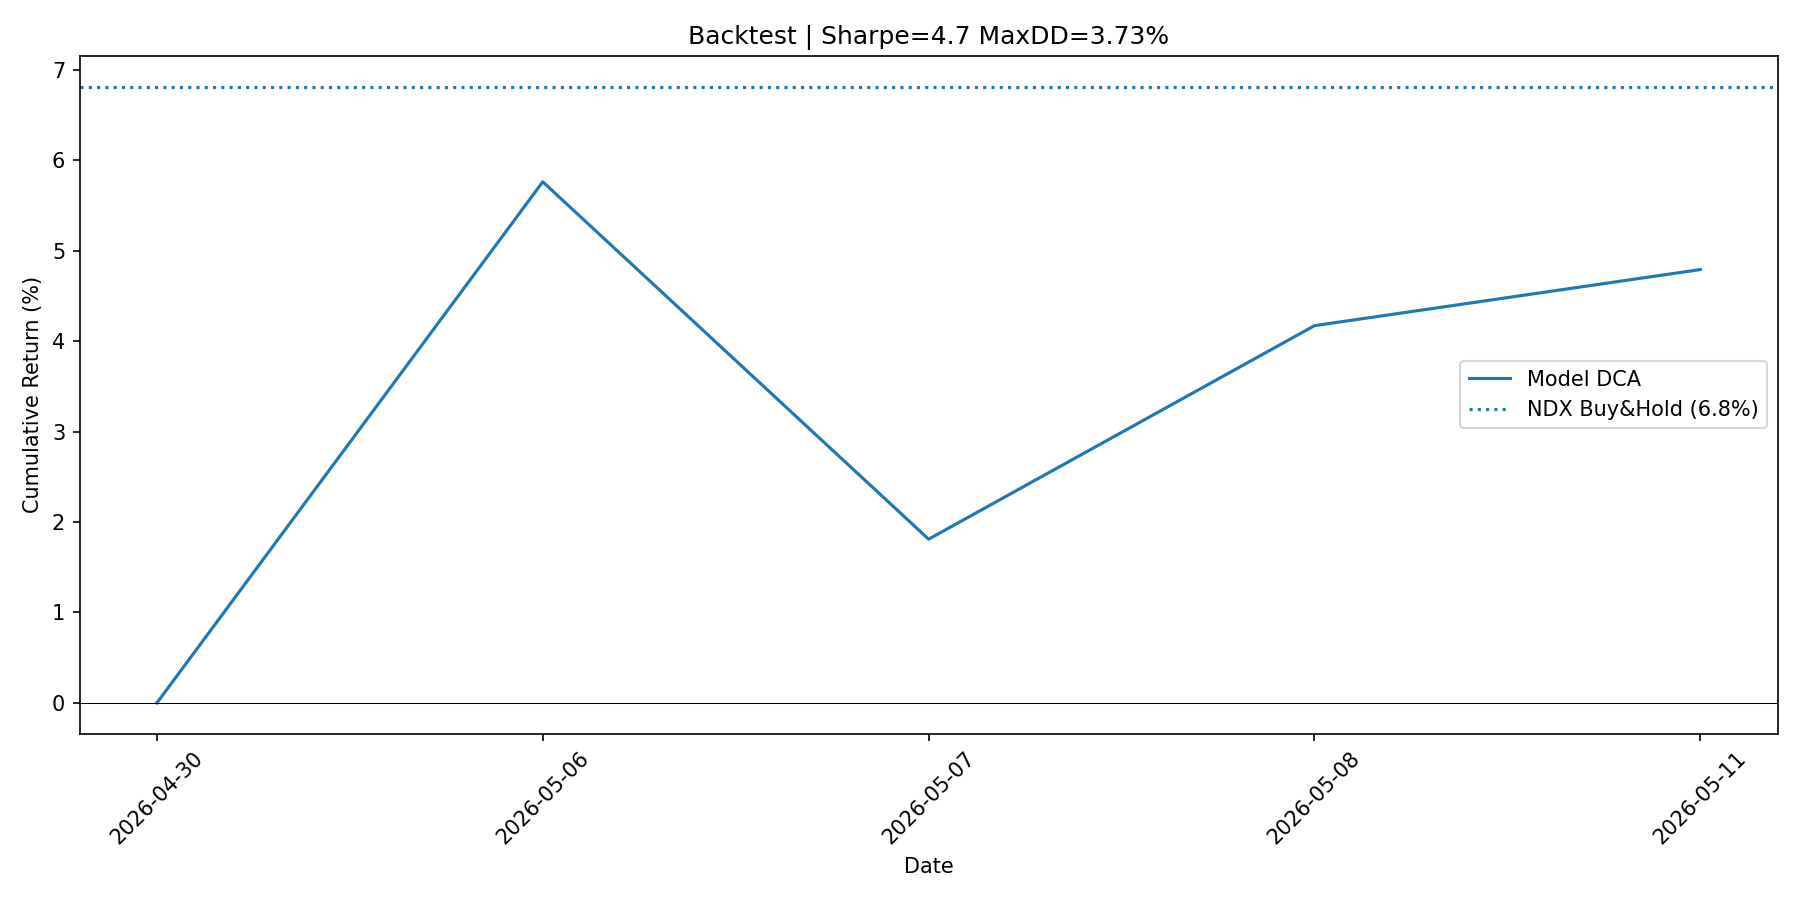
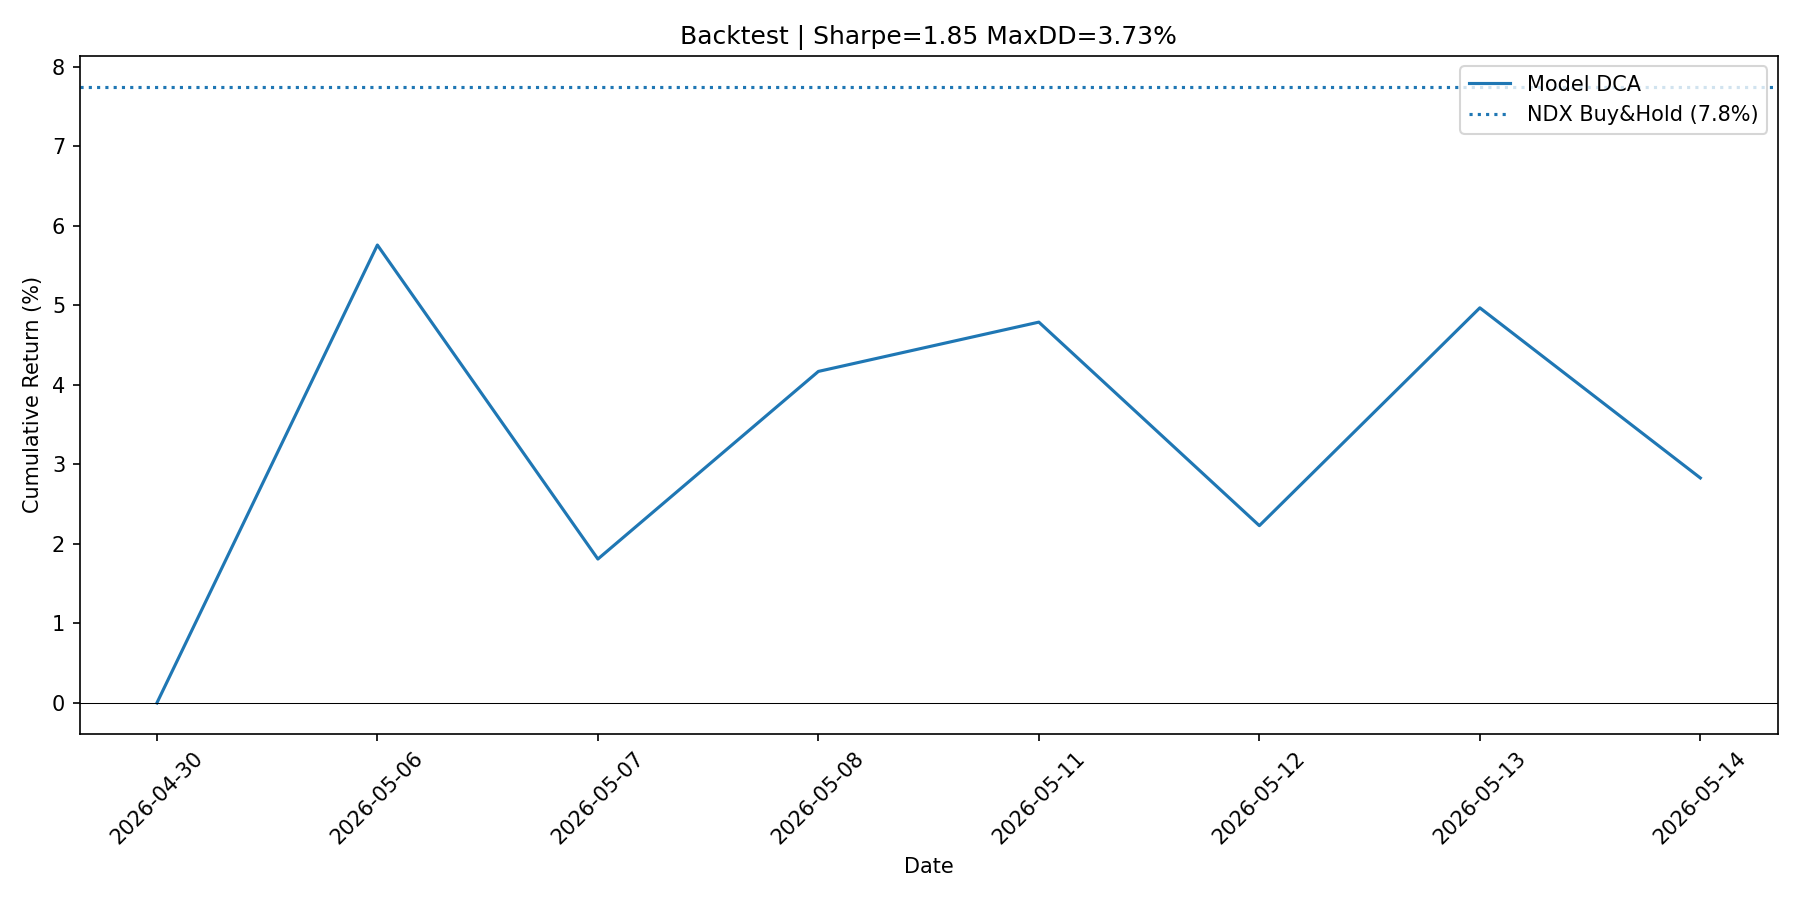
修复了5:15定时任务中回测读取的先后顺序问题

diff --git a/yfd_quant/data/db.py b/yfd_quant/data/db.py
@@ -164,6 +164,7 @@ INSERT_VALIDATION = (
 UPDATE_VALIDATION = (
     "UPDATE validation SET ndx_actual_open=?, ndx_actual_close=?, "
     "p_est_deviation=?, entry_return=?, forward_return=?, "
+    "fund_entry_return=?, fund_forward_return=?, "
     "operate_time=? WHERE date=?"
 )
 
@@ -182,6 +183,15 @@ INSERT_FUND = (
 
 
 # ========== 底层操作 ==========
+
+def _migrate_validation(conn: sqlite3.Connection) -> None:
+    """迁移：给 validation 表新增基金收益列"""
+    for col in ("fund_entry_return REAL", "fund_forward_return REAL"):
+        try:
+            conn.execute(f"ALTER TABLE validation ADD COLUMN {col}")
+        except sqlite3.OperationalError:
+            pass  # 列已存在
+
 
 def _migrate_snapshot(conn: sqlite3.Connection) -> None:
     """迁移：删除快照表中已废弃的 CPO 中间变量列"""
@@ -217,6 +227,7 @@ def _get_conn() -> sqlite3.Connection:
     conn.execute(CREATE_SNAPSHOT)
     conn.execute(CREATE_VALIDATION)
     conn.execute(CREATE_FUND)
+    _migrate_validation(conn)
     conn.commit()
     _migrate_snapshot(conn)
     conn.commit()
@@ -516,6 +527,10 @@ def save_validation(date: str, result) -> None:
 
 def update_actual(date: str, actual_open: float, actual_close: float) -> None:
     """补录实际数据：从 snapshot 读 p_est/c_prev，写入 validation"""
+    # 跳过已有 actual 数据的行（backfill 已写入）
+    existing = _get_validation_row(date)
+    if existing and existing.get("ndx_actual_open"):
+        return
     snap = get_snapshot(date)
     if snap:
         p_est = snap["p_est"]
@@ -537,12 +552,39 @@ def update_actual(date: str, actual_open: float, actual_close: float) -> None:
     if next_row and actual_close > 0:
         fwd_ret = ((next_row[0] - actual_close) / actual_close * 100)
 
+    # 基金收益
+    fund_entry_ret, fund_fwd_ret = _compute_fund_returns(date)
+
     conn.execute(UPDATE_VALIDATION, (
         actual_open, actual_close,
         round(deviation, 2), round(entry_ret, 2), round(fwd_ret, 2),
+        round(fund_entry_ret, 4), round(fund_fwd_ret, 4),
         _now(), date))
     conn.commit()
     conn.close()
+
+
+def _compute_fund_returns(date: str) -> tuple[float, float]:
+    """计算基金 entry_return 和 forward_return，返回 (entry, forward)"""
+    nav_today = _get_fund_nav(date)
+    if not nav_today:
+        return 0.0, 0.0
+    # entry_return: (nav[T] - nav[T-1]) / nav[T-1] * 100
+    # fund_nav 表中 T-1 的数据：找 < date 的最后一条
+    conn = _get_conn()
+    prev_row = conn.execute(
+        "SELECT nav FROM fund_nav WHERE date < ? ORDER BY date DESC LIMIT 1", (date,)
+    ).fetchone()
+    conn.close()
+    fund_entry_ret = 0.0
+    if prev_row and prev_row[0] > 0:
+        fund_entry_ret = (nav_today - prev_row[0]) / prev_row[0] * 100
+    # forward_return: (nav[T+1] - nav[T]) / nav[T] * 100
+    next_nav = _get_next_fund_nav(date)
+    fund_fwd_ret = 0.0
+    if next_nav and nav_today > 0:
+        fund_fwd_ret = (next_nav[1] - nav_today) / nav_today * 100
+    return fund_entry_ret, fund_fwd_ret
 
 
 def get_pending_validations() -> list[dict]:
@@ -584,6 +626,23 @@ def backfill_all_pending() -> list[str]:
         fwd_ret = 0.0
         if next_row and actual_close > 0:
             fwd_ret = ((next_row[0] - actual_close) / actual_close * 100)
+        # 从 snapshot 读取模型字段（而非填 0）
+        snap = conn.execute(
+            "SELECT sbi, amount, r_cpo, r_nq, r_fx, vix, base, "
+            "omega_ext, omega_bias, omega_pos, rsi_bonus, "
+            "phi, tau_adx, omega_vol, bias_pct, rsi, adx "
+            "FROM snapshot WHERE date=?", (date,)
+        ).fetchone()
+        if snap:
+            (sbi, amount, r_cpo, r_nq, r_fx, vix, base,
+             omega_ext, omega_bias, omega_pos, rsi_bonus,
+             phi, tau_adx, omega_vol, bias_pct, rsi, adx) = snap
+        else:
+            sbi = amount = r_cpo = r_nq = r_fx = vix = base = 0
+            omega_ext = omega_bias = omega_pos = rsi_bonus = 0
+            phi = tau_adx = omega_vol = bias_pct = rsi = adx = 0
+        # 基金收益
+        fund_entry_ret, fund_fwd_ret = _compute_fund_returns(date)
         # INSERT OR REPLACE 确保无论 validation 有无该日期都能写入
         conn.execute(
             "INSERT OR REPLACE INTO validation "
@@ -591,12 +650,15 @@ def backfill_all_pending() -> list[str]:
             "base, omega_ext, omega_bias, omega_pos, rsi_bonus, "
             "phi, tau_adx, omega_vol, bias_pct, rsi, adx, "
             "ndx_actual_open, ndx_actual_close, "
-            "p_est_deviation, entry_return, forward_return, operate_time) "
-            "VALUES (?,?,?,?,?,?,?,?,?,?,?,?,?,?,?,?,?,?,?,?,?,?,?,?,?,?)",
-            (date, 0, 0, 0, 0, 0, 0, c_prev, p_est,
-             0, 0, 0, 0, 0, 0, 0, 0, 0, 0, 0,
+            "p_est_deviation, entry_return, forward_return, "
+            "fund_entry_return, fund_forward_return, operate_time) "
+            "VALUES (?,?,?,?,?,?,?,?,?,?,?,?,?,?,?,?,?,?,?,?,?,?,?,?,?,?,?,?)",
+            (date, sbi, amount, r_cpo, r_nq, r_fx, vix, c_prev, p_est,
+             base, omega_ext, omega_bias, omega_pos, rsi_bonus,
+             phi, tau_adx, omega_vol, bias_pct, rsi, adx,
              actual_open, actual_close,
              round(deviation, 2), round(entry_ret, 2), round(fwd_ret, 2),
+             round(fund_entry_ret, 4), round(fund_fwd_ret, 4),
              _now()))
         filled.append(date)
     conn.commit()
@@ -604,11 +666,51 @@ def backfill_all_pending() -> list[str]:
     return filled
 
 
+def fix_forward_returns() -> list[str]:
+    """修复 forward_return 和 fund_*_return 中为 0 但数据已有的记录"""
+    conn = _get_conn()
+    rows = conn.execute(
+        "SELECT v.date, v.ndx_actual_close, v.fund_entry_return, v.fund_forward_return "
+        "FROM validation v "
+        "WHERE v.ndx_actual_close > 0 "
+        "AND (v.forward_return = 0 OR v.fund_entry_return = 0 OR v.fund_forward_return = 0)"
+    ).fetchall()
+    fixed = []
+    for date, actual_close, fund_entry, fund_fwd in rows:
+        updates = {}
+        # 修复 NDX forward_return
+        if fund_fwd is not None and actual_close > 0:
+            pass  # 下面统一处理
+        next_row = conn.execute(
+            "SELECT close FROM ndx_daily WHERE date > ? ORDER BY date LIMIT 1", (date,)
+        ).fetchone()
+        if next_row and actual_close > 0:
+            fwd_ret = (next_row[0] - actual_close) / actual_close * 100
+            updates["forward_return"] = round(fwd_ret, 2)
+        # 修复基金收益
+        fund_entry_ret, fund_fwd_ret = _compute_fund_returns(date)
+        if (not fund_entry or fund_entry == 0) and fund_entry_ret != 0:
+            updates["fund_entry_return"] = round(fund_entry_ret, 4)
+        if (not fund_fwd or fund_fwd == 0) and fund_fwd_ret != 0:
+            updates["fund_forward_return"] = round(fund_fwd_ret, 4)
+        if updates:
+            set_clause = ", ".join(f"{k}=?" for k in updates)
+            values = list(updates.values()) + [_now(), date]
+            conn.execute(
+                f"UPDATE validation SET {set_clause}, operate_time=? WHERE date=?",
+                values
+            )
+            fixed.append(date)
+    conn.commit()
+    conn.close()
+    return fixed
+
+
 def _get_validation_row(date: str):
     conn = _get_conn()
-    row = conn.execute("SELECT p_est, c_prev FROM validation WHERE date=?", (date,)).fetchone()
+    row = conn.execute("SELECT p_est, c_prev, ndx_actual_open FROM validation WHERE date=?", (date,)).fetchone()
     conn.close()
-    return {"p_est": row[0], "c_prev": row[1]} if row else None
+    return {"p_est": row[0], "c_prev": row[1], "ndx_actual_open": row[2]} if row else None
 
 
 def get_validation_stats() -> dict:
@@ -616,7 +718,8 @@ def get_validation_stats() -> dict:
     conn = _get_conn()
     rows = conn.execute(
         "SELECT v.p_est_deviation, v.entry_return, v.forward_return, "
-        "s.sbi, s.p_est, v.ndx_actual_open, s.ndx_close_prev, v.ndx_actual_close, v.date "
+        "s.sbi, s.p_est, v.ndx_actual_open, s.ndx_close_prev, v.ndx_actual_close, v.date, "
+        "v.fund_entry_return, v.fund_forward_return "
         "FROM validation v "
         "JOIN snapshot s ON v.date = s.date "
         "WHERE v.p_est_deviation IS NOT NULL"
@@ -625,7 +728,8 @@ def get_validation_stats() -> dict:
     if not rows:
         rows = conn.execute(
             "SELECT p_est_deviation, entry_return, forward_return, sbi, "
-            "p_est, ndx_actual_open, c_prev, ndx_actual_close, date "
+            "p_est, ndx_actual_open, c_prev, ndx_actual_close, date, "
+            "fund_entry_return, fund_forward_return "
             "FROM validation WHERE p_est_deviation IS NOT NULL"
         ).fetchall()
     conn.close()
@@ -635,6 +739,8 @@ def get_validation_stats() -> dict:
     deviations = [r[0] for r in rows]
     entry_rets = [r[1] for r in rows]
     fwd_rets = [r[2] for r in rows if r[2] is not None and r[2] != 0]
+    fund_entry_rets = [r[9] for r in rows if r[9] is not None and r[9] != 0]
+    fund_fwd_rets = [r[10] for r in rows if r[10] is not None and r[10] != 0]
     sbis = [r[3] for r in rows]
 
     details = []
@@ -644,6 +750,7 @@ def get_validation_stats() -> dict:
             "c_prev": r[6], "actual_close": r[7],
             "deviation": r[0], "entry_return": r[1],
             "forward_return": r[2], "sbi": r[3],
+            "fund_entry_return": r[9], "fund_forward_return": r[10],
             "deviation_calc": f"({r[5]:.1f} - {r[4]:.1f}) / {r[4]:.1f} * 100 = {r[0]:+.2f}%",
             "entry_calc": f"({r[7]:.1f} - {r[6]:.1f}) / {r[6]:.1f} * 100 = {r[1]:+.2f}%",
         })
@@ -660,6 +767,8 @@ def get_validation_stats() -> dict:
         "p_est_bias": sum(deviations) / len(deviations),
         "avg_entry_return": sum(entry_rets) / len(entry_rets),
         "avg_forward_return": sum(fwd_rets) / len(fwd_rets) if fwd_rets else 0,
+        "avg_fund_entry_return": sum(fund_entry_rets) / len(fund_entry_rets) if fund_entry_rets else 0,
+        "avg_fund_forward_return": sum(fund_fwd_rets) / len(fund_fwd_rets) if fund_fwd_rets else 0,
         "sbi_buckets": {k: {"count": len(v), "avg_return": sum(v)/len(v) if v else 0}
                         for k, v in buckets.items()},
         "details": details,
@@ -680,6 +789,24 @@ def get_fund_navs() -> list[dict]:
     rows = conn.execute("SELECT date, nav, daily_return FROM fund_nav ORDER BY date").fetchall()
     conn.close()
     return [{"date": r[0], "nav": r[1], "daily_return": r[2]} for r in rows]
+
+
+def _get_fund_nav(date: str) -> float | None:
+    """查 fund_nav 表某日净值，不存在返回 None"""
+    conn = _get_conn()
+    row = conn.execute("SELECT nav FROM fund_nav WHERE date=?", (date,)).fetchone()
+    conn.close()
+    return float(row[0]) if row else None
+
+
+def _get_next_fund_nav(date: str) -> tuple[str, float] | None:
+    """查 fund_nav 表 > date 的第一条记录，返回 (date, nav) 或 None"""
+    conn = _get_conn()
+    row = conn.execute(
+        "SELECT date, nav FROM fund_nav WHERE date > ? ORDER BY date LIMIT 1", (date,)
+    ).fetchone()
+    conn.close()
+    return (row[0], float(row[1])) if row else None
 
 
 # ========== Import ==========

diff --git a/yfd_quant/main.py b/yfd_quant/main.py
@@ -25,7 +25,7 @@ from yfd_quant.data.db import (
     insert_nq_daily, get_nq_prev_close,
     save_validation, save_snapshot, get_snapshot, snapshot_to_result,
     snapshot_to_market_snapshot, update_snapshot_derived,
-    update_actual, get_pending_validations, backfill_all_pending,
+    update_actual, get_pending_validations, backfill_all_pending, fix_forward_returns,
     get_validation_stats,
     insert_fund_nav, get_fund_navs,
 )
@@ -258,7 +258,14 @@ def main():
             print(f"[{n+1}/5] VIX: {us_date} C={s.vix:.2f} is_final={is_final}")
             n += 1
 
-        # validation 补录
+        # validation 补录：先用 ndx_daily 创建缺失行，再用实时数据更新
+        filled = backfill_all_pending()
+        if filled:
+            print(f"[4/4] 从 ndx_daily 补录 validation: {filled}")
+        # 修复 forward_return=0 但下一天数据已有的记录
+        fixed_fwd = fix_forward_returns()
+        if fixed_fwd:
+            print(f"[4/4] 修复 forward_return: {fixed_fwd}")
         pending = get_pending_validations()
         msg_parts = []
         if pending and s.ndx_open > 0 and s.ndx_price > 0:
@@ -384,17 +391,22 @@ def main():
                 sbi_label = "强烈买入" if d["sbi"] >= 70 else ("适当买入" if d["sbi"] >= 40 else "仅底仓")
                 fwd = d["forward_return"]
                 fwd_str = f"{fwd:+.2f}%" if fwd and fwd != 0 else "待次日补录"
+                fund_entry = d.get("fund_entry_return")
+                fund_fwd = d.get("fund_forward_return")
+                fund_entry_str = f"{fund_entry:+.2f}%" if fund_entry else "--"
+                fund_fwd_str = f"{fund_fwd:+.2f}%" if fund_fwd else "待T+2补录"
                 print(f"--- {d['date']} (SBI={d['sbi']:.0f} {sbi_label}) ---")
                 print(f"  P_est 偏差: {d['deviation_calc']}")
                 print(f"    正=低估(实际>预估)  负=高估(实际<预估)")
-                print(f"  entry_return(入场日涨跌): {d['entry_calc']}")
-                print(f"    负=买到跌了=划算  正=买到涨了=买贵了")
-                print(f"  forward_return(买入后涨跌): {fwd_str}")
-                print(f"    正=买入后涨了=赚了  负=买入后跌了  待次日记入")
+                print(f"  NDX entry_return(入场日涨跌): {d['entry_calc']}")
+                print(f"  NDX forward_return(买入后涨跌): {fwd_str}")
+                print(f"  基金 entry_return(入场日涨跌): {fund_entry_str}")
+                print(f"  基金 forward_return(买入后涨跌): {fund_fwd_str}")
                 print()
 
             print(f"[汇总] P_est 平均绝对偏差: {stats['p_est_mae']:.2f}% | 方向偏差: {stats['p_est_bias']:+.2f}%")
-            print(f"[汇总] 入场日均收益: {stats['avg_entry_return']:+.2f}% | 买入后均收益: {stats['avg_forward_return']:+.2f}%")
+            print(f"[汇总] NDX 入场日均收益: {stats['avg_entry_return']:+.2f}% | 买入后均收益: {stats['avg_forward_return']:+.2f}%")
+            print(f"[汇总] 基金入场日均收益: {stats['avg_fund_entry_return']:+.2f}% | 买入后均收益: {stats['avg_fund_forward_return']:+.2f}%")
             print(f"[分桶] SBI<30: {stats['sbi_buckets']['low']['count']}天 | 30-70: {stats['sbi_buckets']['mid']['count']}天 | >=70: {stats['sbi_buckets']['high']['count']}天")
 
         if navs:

diff --git a/yfd_quant/fund_info.py b/yfd_quant/fund_info.py
@@ -203,7 +203,7 @@ def get_latest_nav(fundcode="012922") -> dict | None:
         return {
             "date": navdate,
             "nav": float(nav),
-            "daily_return": float(dayinc) / 100 if dayinc else 0.0,
+            "daily_return": float(dayinc) if dayinc else 0.0,
         }
     except (ValueError, TypeError):
         return None

diff --git a/output/backtest_summary.md b/output/backtest_summary.md
@@ -1,21 +1,21 @@
 # Backtest Summary
 
-**Period**: 2026-04-30 ~ 2026-05-11
-**Trades**: 5 | **Skipped**: 1
+**Period**: 2026-04-30 ~ 2026-05-14
+**Trades**: 8 | **Skipped**: 1
 
 ## Returns
 | Metric | Value |
 |--------|-------|
-| Model Cumulative Return | 4.79% |
+| Model Cumulative Return | 2.83% |
 | Fixed DCA | 0.0% |
-| NDX Buy & Hold | 6.81% |
-| Total Invested | 23.76 CNY |
-| Total PnL | 1.14 CNY |
+| NDX Buy & Hold | 7.75% |
+| Total Invested | 58.26 CNY |
+| Total PnL | 1.65 CNY |
 
 ## Risk
 | Metric | Value |
 |--------|-------|
-| Sharpe Ratio | 4.7 |
+| Sharpe Ratio | 1.85 |
 | Max Drawdown | 3.73% |
-| Win Rate | 75.0% |
-| Profit Factor | 0.74 |
+| Win Rate | 57.1% |
+| Profit Factor | 1.0 |